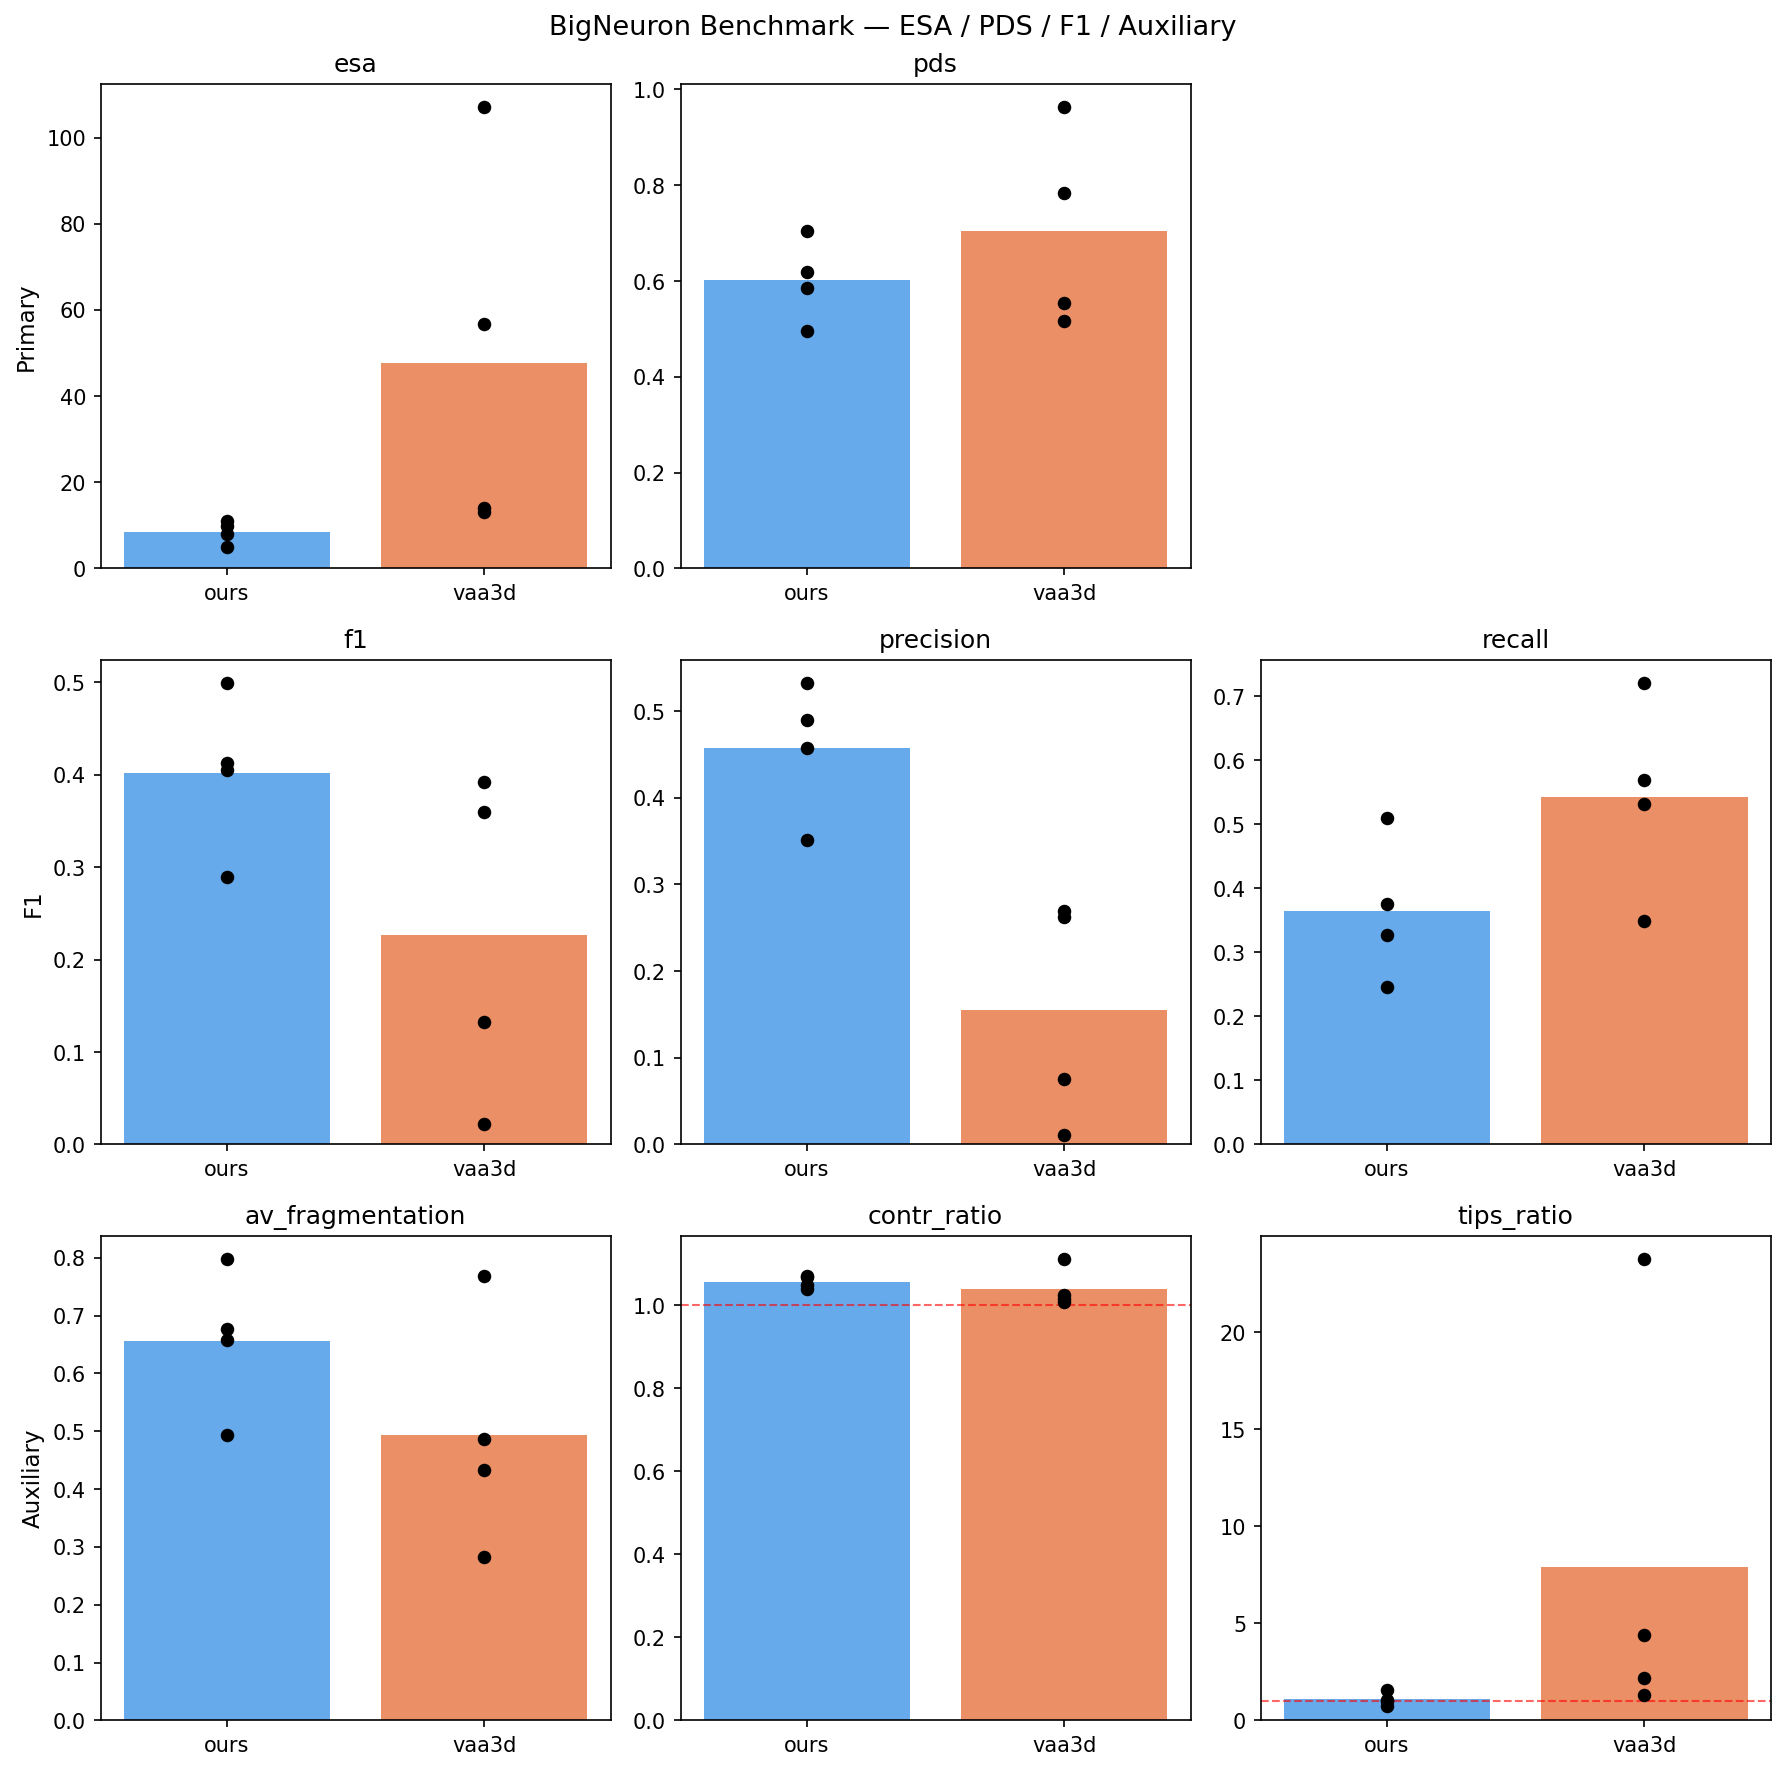
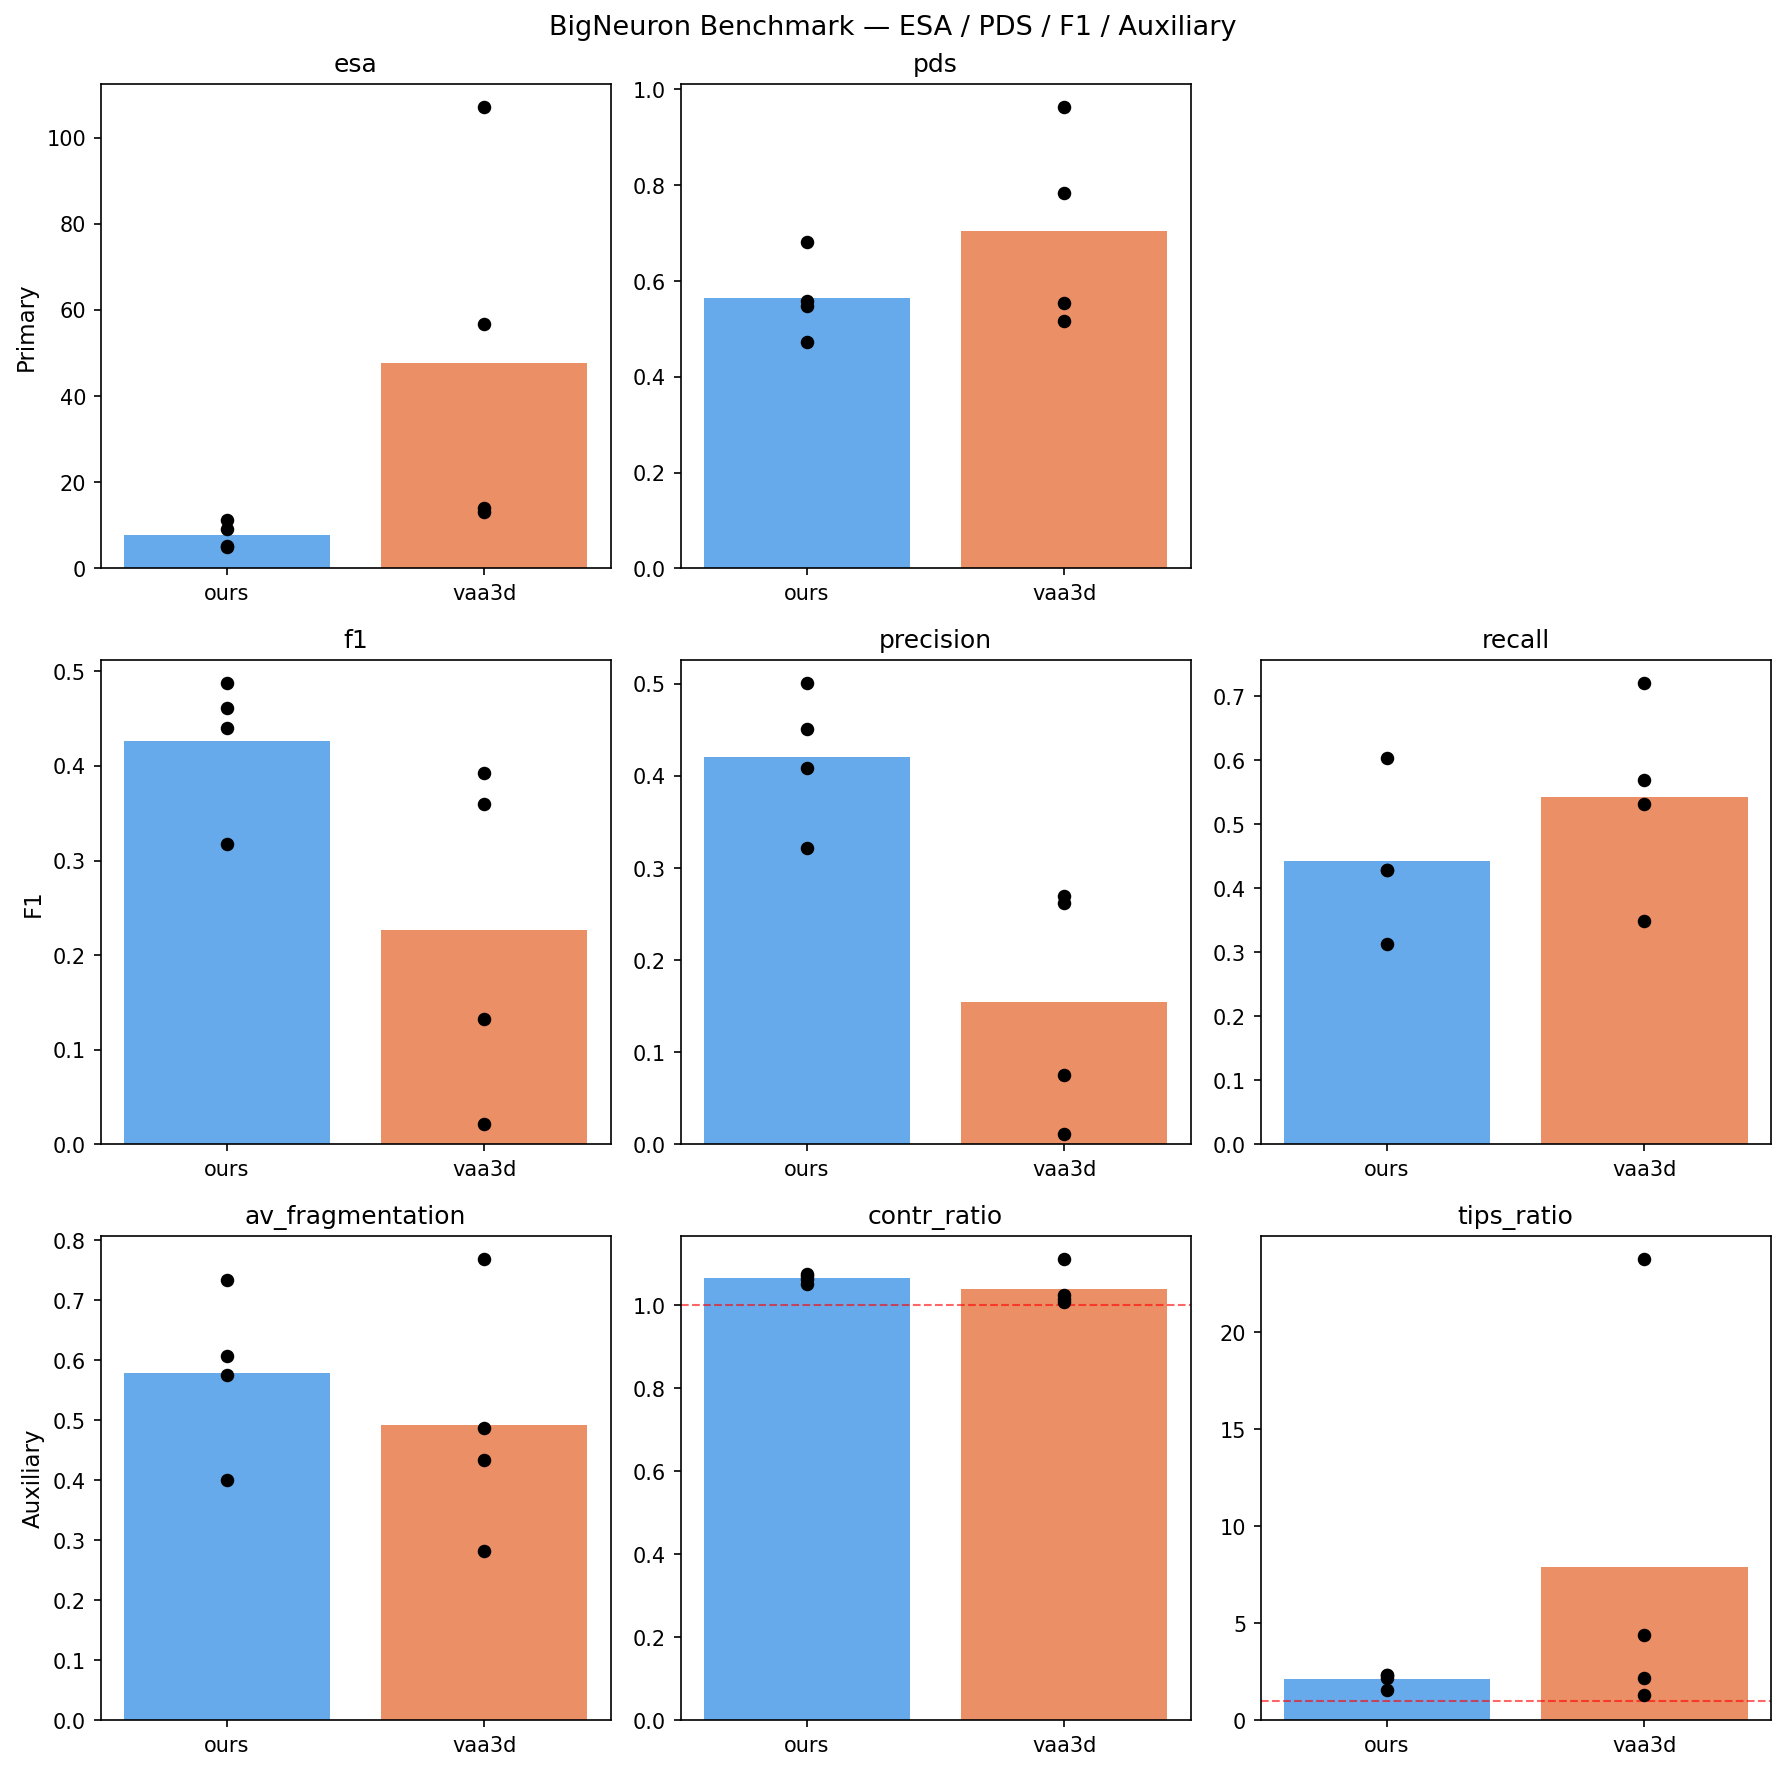
step3: sat_frac 기반 adaptive MIN_DIST_UM (20→15µm)
T saturation이 낮은(sat_frac<0.05) 깨끗한 이미지에서 seed 간격을
20µm→15µm로 자동 축소. coherence weighting 후 전 샘플이 해당됨.

neuron2 F1 0.413→0.440, neuron4 F1 0.289→0.317,
s10mm F1 0.406→0.462 (recall +30%). s06b 소폭 하락(0.499→0.488).

diff --git a/benchmark/methods/ours/step3_auto.py b/benchmark/methods/ours/step3_auto.py
@@ -137,9 +137,15 @@ def main():
     T_fg     = T_down[T_down > 0.02].ravel()
     otsu_val = float(threshold_otsu(T_fg))
 
+    # T saturation 기반 seed 간격 자동 결정
+    # Z PSF saturated 이미지(neuron2/4): T_down >Otsu 비율 높음 → 20µm 유지
+    # 저노이즈 이미지(s06b/s10mm): >Otsu 비율 낮음 → 15µm로 더 촘촘하게
+    sat_frac = float((T_down > otsu_val).mean())
+    MIN_DIST_UM_actual = MIN_DIST_UM if sat_frac > 0.05 else 15.0
+
     MIN_T_TIP    = round(float(np.clip(otsu_val * MIN_T_TIP_RATIO,  0.10, 0.55)), 2)
     ALPHA        = round(float(np.clip(np.log(COST_TARGET_RATIO), 4.0, 12.0)), 1)
-    MIN_DIST_VOX = int(round(MIN_DIST_UM / voxel_down))
+    MIN_DIST_VOX = int(round(MIN_DIST_UM_actual / voxel_down))
     MIN_MEAN_T   = round(float(np.clip(otsu_val * MIN_MEAN_T_RATIO, 0.08, 0.40)), 2)
     MIN_SEG_T    = round(float(np.clip(otsu_val * MIN_SEG_T_RATIO,  0.02, 0.12)), 3)
     MIN_PATH_LEN_UM = round(float(max(MIN_PATH_LEN_UM_FLOOR, soma_r_um * 0.5)), 1)
@@ -150,7 +156,8 @@ def main():
     print('=' * 56)
     print(f'  ALPHA        = {ALPHA}  (log({COST_TARGET_RATIO})  cost@T=1={np.exp(-ALPHA):.4f})')
     print(f'  MIN_T_TIP    = {MIN_T_TIP}  (Otsu={otsu_val:.3f})')
-    print(f'  MIN_DIST_VOX = {MIN_DIST_VOX}  ({MIN_DIST_UM} um)'
+    print(f'  sat_frac     = {sat_frac:.3f}  → MIN_DIST_UM={MIN_DIST_UM_actual:.0f}')
+    print(f'  MIN_DIST_VOX = {MIN_DIST_VOX}  ({MIN_DIST_UM_actual} um)'
           f'  MIN_T_TIP_RATIO = {MIN_T_TIP_RATIO}')
     print(f'  MIN_MEAN_T   = {MIN_MEAN_T}')
     print(f'  MIN_SEG_T    = {MIN_SEG_T}')